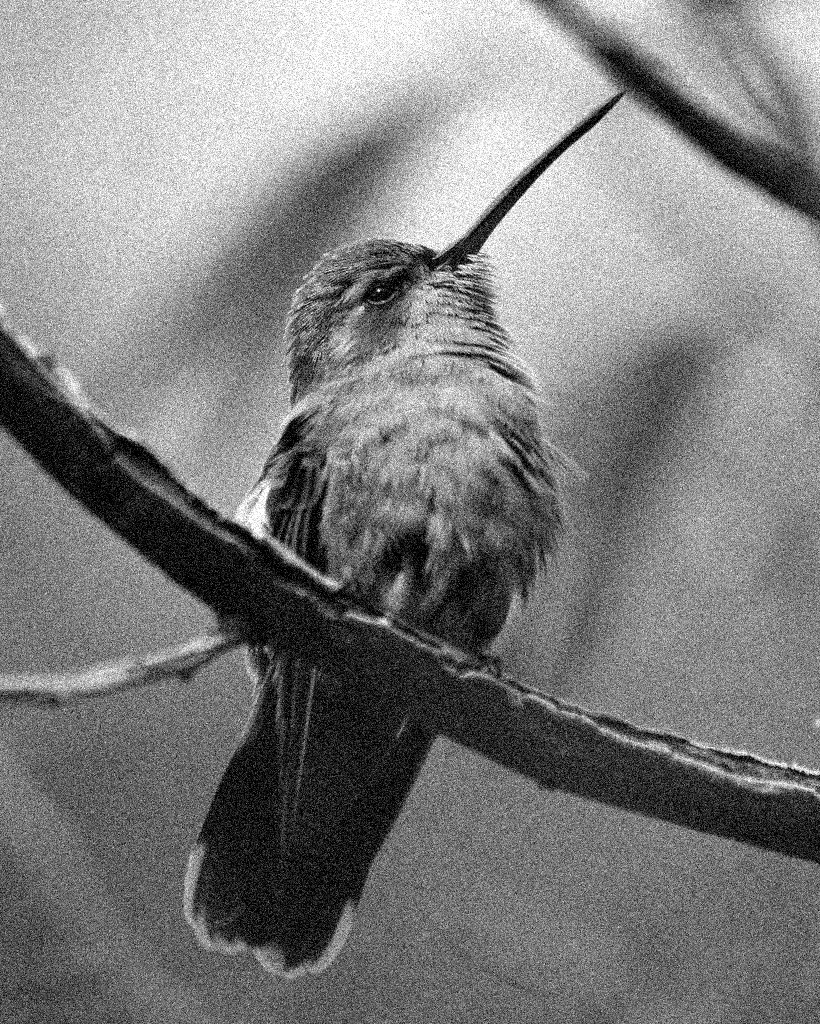
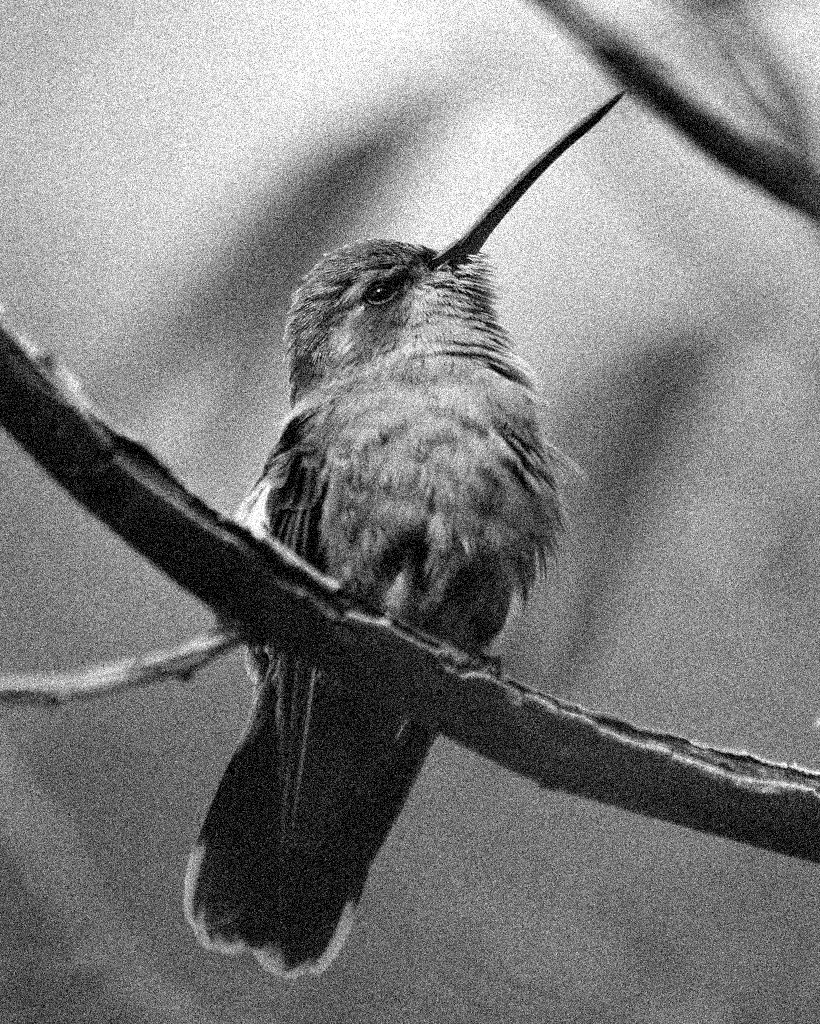
minor changes

diff --git a/image_augmentation.py b/image_augmentation.py
@@ -39,10 +39,10 @@ def convert_to_grayscale(src, dst):
 
 
 ### IMAGE CONVERTER TO GRAYSCALE WITH NOISE
-### APPLIES 3 DIFFERENT VARIANCES 
+### APPLIES 3 DIFFERENT standard_devs 
 def convert_to_grayscale_with_noise(src, dst):
     
-    variances = [0.1, 0.2, 0.3]
+    standard_devs = [0.1, 0.2, 0.3]
 
     for item in os.listdir(src):
 
@@ -54,28 +54,26 @@ def convert_to_grayscale_with_noise(src, dst):
             grayImage = cv2.cvtColor(originalImage, cv2.COLOR_BGR2GRAY)
 
             im_arr = np.asarray(grayImage)
-            
-            for i in range(len(variances)):
-                variance = variances[i]
-                noise_img = random_noise(im_arr, mode='gaussian', var=variance**2)
+            for i in range(len(standard_devs)):
+                standard_dev = standard_devs[i]
+                noise_img = random_noise(im_arr, mode='gaussian', var=standard_dev**2)
                 test_arr = noise_img.flatten()
-                print(noise_img.shape)
+                print(min(test_arr))
                 noise_img = (255*noise_img).astype(np.uint8)
                 print("---------------------------------------------------")
-                print(noise_img)
                 print("###################################################")
                 print("###################################################")
                 print("###################################################")
 
-                var_split = str(round(variance, 1)).split('.')
+                var_split = str(round(standard_dev, 1)).split('.')
                 jpg_filename = str(split[0] + "_gn_" + var_split[0] + var_split[1] + "." + split[1])
                 cv2.imwrite(os.path.join(dst, jpg_filename), noise_img)
                 file_counter()
 
         elif s.endswith(".txt"):
-            for i in range(len(variances)):
-                variance = variances[i]
-                var_split = str(round(variance, 1)).split('.')
+            for i in range(len(standard_devs)):
+                standard_dev = standard_devs[i]
+                var_split = str(round(standard_dev, 1)).split('.')
                 txt_filename = str(split[0] + "_gn_" + var_split[0] + var_split[1] + "." + split[1])
                 shutil.copy(s, os.path.join(dst, txt_filename))
                 file_counter()
